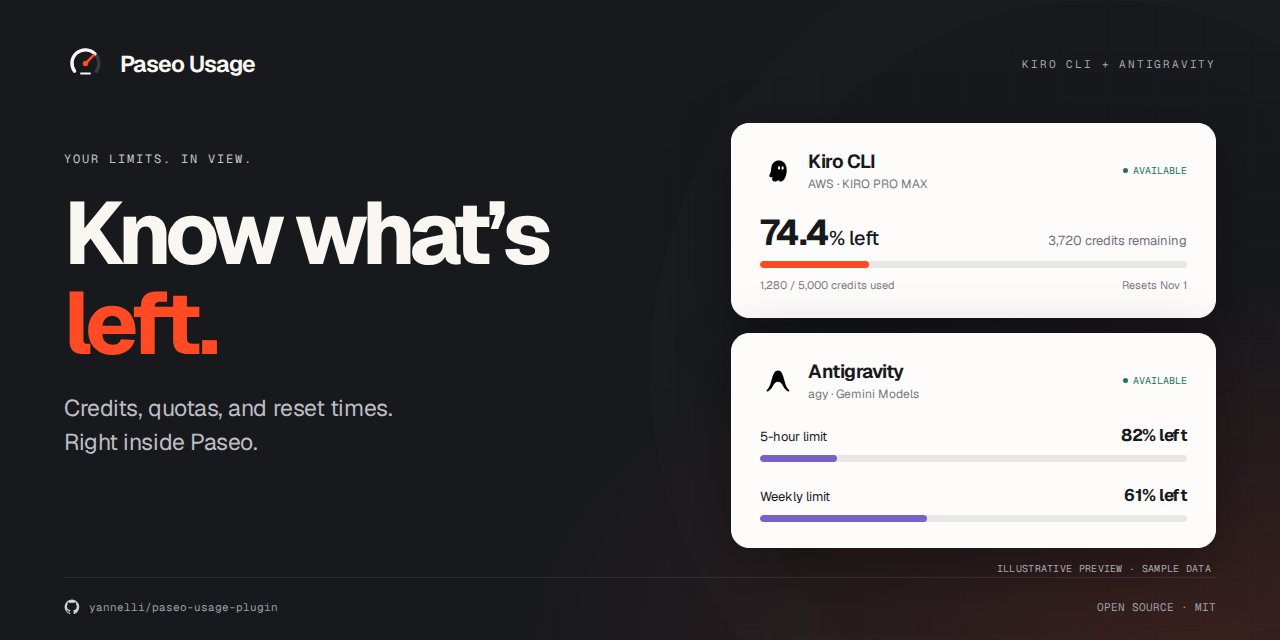
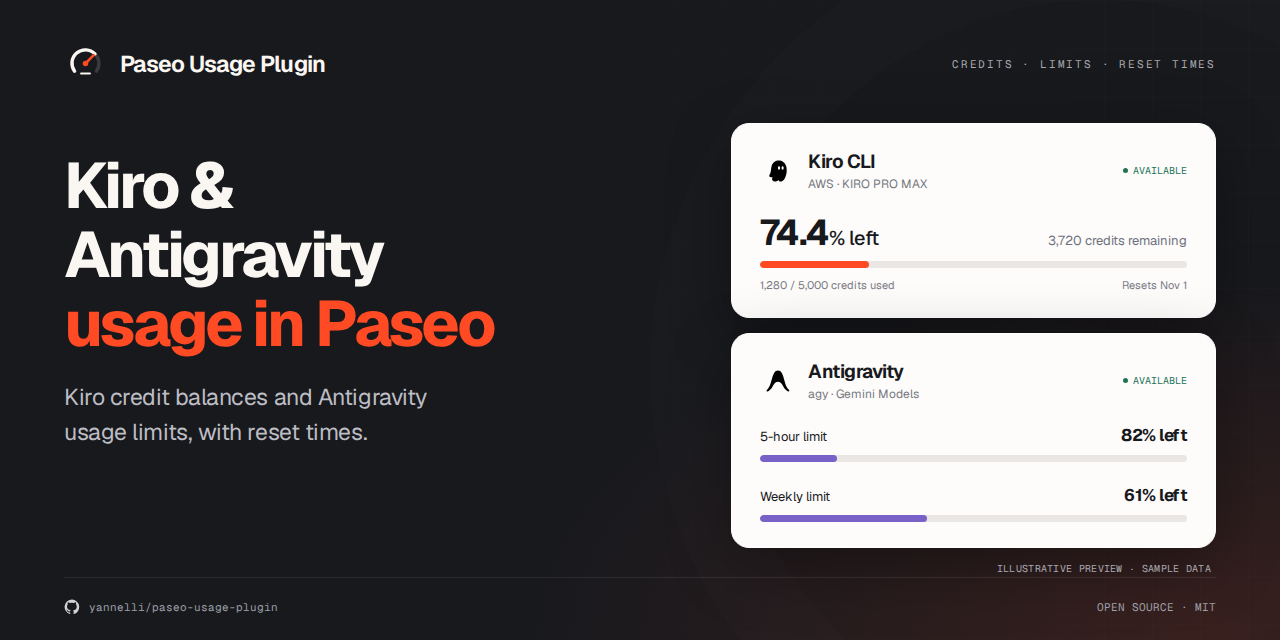
fix: describe plugin usage clearly in headings and graphics

diff --git a/docs/graphics/banner.html b/docs/graphics/banner.html
@@ -2,7 +2,7 @@
 <html lang="en">
 <head>
   <meta charset="utf-8">
-  <title>Paseo Usage — illustrative quota preview</title>
+  <title>Kiro and Antigravity usage in Paseo</title>
   <style>
     @font-face{font-family:Geist;src:url('./fonts/geist.woff2') format('woff2');font-weight:100 900}
     @font-face{font-family:Geist Mono;src:url('./fonts/geist-mono.woff2') format('woff2');font-weight:100 900}
@@ -14,8 +14,8 @@
     .watermark{position:absolute;width:900px;height:900px;right:-270px;top:-80px;border:80px solid #ffffff03;border-radius:50%}
     header{position:absolute;left:64px;right:64px;top:42px;display:flex;align-items:center;justify-content:space-between}
     .brand{display:flex;align-items:center;gap:13px;font-size:23px;font-weight:640;letter-spacing:-.7px}.brand img{width:43px;height:43px}.edition{font:11px Geist Mono,monospace;color:var(--muted);letter-spacing:1.8px}
-    .copy{position:absolute;left:64px;top:170px;width:535px}.eyebrow{font:12px Geist Mono,monospace;letter-spacing:2px;color:#c5c5c9;margin-bottom:22px}
-    h1{font-size:94px;line-height:1.02;letter-spacing:-6px;font-weight:730;margin:0}h1 em{font-style:normal;color:var(--orange)}
+    .copy{position:absolute;left:64px;top:180px;width:535px}.eyebrow{font:12px Geist Mono,monospace;letter-spacing:2px;color:#c5c5c9;margin-bottom:22px}
+    h1{font-size:64px;line-height:1.08;letter-spacing:-2.8px;font-weight:730;margin:0}h1 em{font-style:normal;color:var(--orange)}
     .intro{font-size:23px;line-height:1.5;color:#bdbdc4;margin-top:29px;letter-spacing:-.45px;max-width:445px}
     .chips{display:flex;gap:10px;margin-top:27px}.chip{font-size:12px;border:1px solid #ffffff1b;padding:8px 11px;border-radius:5px;color:#d5d5db}.chip:before{content:'✓';color:#ff7254;margin-right:7px}
     .stack{position:absolute;right:64px;top:144px;width:485px}.card{color:var(--ink);background:#fdfcfb;border:1px solid #fff;border-radius:18px;padding:25px 28px;box-shadow:0 18px 65px #0005}
@@ -24,18 +24,17 @@
     .sample{font:10px Geist Mono,monospace;color:#aaaab1;text-align:right;margin:14px 5px;letter-spacing:.3px}.bottom{position:absolute;left:64px;right:64px;bottom:35px;display:flex;align-items:center;justify-content:space-between;border-top:1px solid #ffffff15;padding-top:21px;font:11px Geist Mono,monospace;color:#9fa0a8}.repo{display:flex;align-items:center;gap:9px}.repo svg{height:16px;width:16px;fill:#d1d1d5}
     .preview{background:var(--paper);color:var(--ink);display:none;padding:48px 64px}.preview .eyebrow{color:#8b634f;margin-bottom:10px}.preview h2{font-size:47px;letter-spacing:-2.2px;font-weight:680;margin:0 0 9px}.preview .lead{font-size:17px;color:#77787f;margin:0}.panels{display:grid;grid-template-columns:1fr 1fr;gap:22px;margin-top:31px}.panel{background:#fff;border:1px solid #e6e3df;border-radius:14px;padding:27px 30px;height:404px;box-shadow:0 6px 12px #1a191c03}.panel h3{font-size:23px;letter-spacing:-.7px;margin:0}.panel .balance strong{font-size:49px}.panel .balance{margin-top:29px}.panel .legend{font-size:12px}.metrics{display:grid;grid-template-columns:1fr 1fr;border-top:1px solid #eee9e4;margin-top:23px;padding-top:19px;gap:10px}.metric label{font-size:12px;color:#7b7c84;display:block;margin-bottom:6px}.metric strong{font-size:24px;letter-spacing:-1px;font-weight:550}.metric small{font-size:13px;letter-spacing:0;color:#7b7c84}.reset{border-top:1px solid #eee9e4;margin-top:19px;padding-top:16px;display:flex;justify-content:space-between;align-items:center;font-size:12px;color:#7b7c84}.reset b{font-weight:500;color:#33343a}.group{margin-top:20px}.group-label{font-size:12px;color:#777981;margin-bottom:13px}.group .quota-row{margin-top:12px}.group .quota-line{font-size:12px;margin-bottom:7px}.group .quota-line strong{font-size:15px}.group .track{height:6px}.group+.group{padding-top:16px;border-top:1px solid #eee9e4;margin-top:18px}.panel .status{font-size:10px}.preview .bottom{border-color:#ddd9d4;color:#77787f;bottom:32px}.preview .bottom span:first-child{color:#41424a}
     body[data-view=preview] .hero{display:none}body[data-view=preview] .preview{display:block}
-    body[data-view=social],body[data-view=social] .artboard{height:640px}body[data-view=social] .copy{top:151px}body[data-view=social] .stack{top:123px}body[data-view=social] h1{font-size:88px}body[data-view=social] .chips{display:none}body[data-view=social] .intro{margin-top:22px}body[data-view=social] .bottom{bottom:25px}
+    body[data-view=social],body[data-view=social] .artboard{height:640px}body[data-view=social] .copy{top:151px}body[data-view=social] .stack{top:123px}body[data-view=social] .chips{display:none}body[data-view=social] .intro{margin-top:22px}body[data-view=social] .bottom{bottom:25px}
   </style>
 </head>
 <body>
   <section class="artboard hero">
     <div class="grid"></div><div class="watermark"></div>
-    <header><div class="brand"><img src="../../assets/icon.svg" alt="Usage gauge">Paseo Usage</div><div class="edition">KIRO CLI + ANTIGRAVITY</div></header>
-    <div class="copy">
-      <div class="eyebrow">YOUR LIMITS. IN VIEW.</div>
-      <h1>Know what’s<br><em>left.</em></h1>
-      <p class="intro">Credits, quotas, and reset times.<br>Right inside Paseo.</p>
-      <div class="chips"><span class="chip">Existing CLI logins</span><span class="chip">Native Usage view</span></div>
+    <header><div class="brand"><img src="../../assets/icon.svg" alt="Usage gauge">Paseo Usage Plugin</div><div class="edition">CREDITS · LIMITS · RESET TIMES</div></header>
+    <div class="copy" data-bounds>
+      <h1>Kiro &amp;<br>Antigravity<br><em>usage in Paseo</em></h1>
+      <p class="intro">Kiro credit balances and Antigravity<br>usage limits, with reset times.</p>
+      <div class="chips"><span class="chip">Uses existing CLI logins</span><span class="chip">Shown in Usage</span></div>
     </div>
     <div class="stack">
       <div class="card" data-bounds>
@@ -53,9 +52,9 @@
     <footer class="bottom"><span class="repo"><svg viewBox="0 0 24 24" aria-hidden="true"><path d="M12 .8a11.2 11.2 0 0 0-3.5 21.8c.6.1.8-.2.8-.5v-2c-3.3.7-4-1.4-4-1.4-.5-1.3-1.3-1.7-1.3-1.7-1.1-.8.1-.8.1-.8 1.2.1 1.8 1.2 1.8 1.2 1 1.8 2.6 1.3 3.3 1 .1-.8.4-1.3.7-1.6-2.6-.3-5.4-1.3-5.4-5.8 0-1.3.5-2.3 1.2-3.1-.1-.3-.5-1.5.1-3.1 0 0 1-.3 3.1 1.2a10.8 10.8 0 0 1 5.7 0C16.8 4.5 17.8 4.8 17.8 4.8c.6 1.6.2 2.8.1 3.1.8.9 1.2 1.9 1.2 3.2 0 4.5-2.8 5.5-5.5 5.8.4.4.8 1.1.8 2.2v3c0 .3.2.6.8.5A11.2 11.2 0 0 0 12 .8Z"/></svg>yannelli/paseo-usage-plugin</span><span>OPEN SOURCE · MIT</span></footer>
   </section>
   <section class="artboard preview">
-    <div class="eyebrow">TWO PROVIDERS. ONE PLACE.</div>
-    <h2>See the balance. Plan the next task.</h2>
-    <p class="lead">Account credits and shared model limits, alongside the reset times that matter.</p>
+    <div class="eyebrow">EXAMPLE USAGE REPORTS</div>
+    <h2>Kiro credits and Antigravity limits</h2>
+    <p class="lead">Kiro: used and remaining credits. Antigravity: five-hour and weekly usage limits.</p>
     <div class="panels">
       <article class="panel" data-bounds>
         <div class="card-title"><span class="provider kiro"><img src="../../assets/providers/kiro.svg" alt="Kiro logo"></span><div><h3>Kiro CLI</h3><div class="sub">AWS · KIRO PRO MAX</div></div><span class="status">AVAILABLE</span></div>

diff --git a/README.md b/README.md
@@ -1,4 +1,4 @@
-![Paseo Usage: know what’s left. Kiro credits and Antigravity quotas, right inside Paseo.](docs/images/github-banner.png)
+![Kiro and Antigravity usage in Paseo: credit balances, usage limits, and reset times.](docs/images/github-banner.png)
 
 # Paseo Usage Plugin
 
@@ -8,9 +8,7 @@
 [![Paseo 0.11.2+](https://img.shields.io/badge/Paseo-0.11.2%2B-18191d)](https://paseo.sh)
 [![MIT license](https://img.shields.io/badge/license-MIT-18191d)](LICENSE)
 
-**Kiro credits. Antigravity quotas. One Usage view.**
-
-`paseo-usage-plugin` brings the account limits from **Kiro CLI (AWS)** and **Antigravity CLI (`agy`)** into Paseo's built-in Usage view and matching agent popovers. It uses the CLI accounts you already signed in with.
+`paseo-usage-plugin` shows **Kiro CLI (AWS) credit balances** and **Antigravity CLI (`agy`) usage limits** in Paseo's Usage view and agent popovers. Reports include remaining allowances and reset times, using your existing CLI logins.
 
 | Provider | What you see |
 | --- | --- |
@@ -40,17 +38,17 @@ paseo plugin install git:yannelli/paseo-usage-plugin
 
 For a fixed GitHub release, add `--ref <release-tag>`. Use a tag from [Releases](https://github.com/yannelli/paseo-usage-plugin/releases). The runtime plugin ID remains `paseo-usage-plugin` for either install source.
 
-## The numbers that matter
+## Usage reports
 
 ![Illustrated Kiro credit balance and Antigravity shared quota reports with sample data.](docs/images/quota-preview.png)
 
 *Graphics are illustrations with sample data, not product screenshots. The actual layout is provided by Paseo.*
 
-- **Account limits, where you work.** The same usage sources feed the host-wide Usage view and the corresponding agent's popover.
-- **The right account for each agent.** Session discovery follows the agent's launch environment. Stable account keys survive token rotation.
-- **Reset times from the provider.** Reported five-hour and weekly periods stay distinct. Unknown periods are not guessed from a countdown.
-- **Existing logins, read-only.** The plugin reads stored access tokens. It never refreshes them, changes login files, or starts an agent.
-- **Useful failure states.** Expired or rejected logins show a remedy. An account error does not prevent other accounts from reporting usage.
+- **Usage view and agent popovers.** Both show reports from the same usage sources.
+- **Account selection.** Each agent uses the CLI account selected by its launch environment. Account identities remain stable when tokens rotate.
+- **Reset periods.** Five-hour and weekly limits use the periods reported by the provider. The plugin does not infer an unknown period from its reset countdown.
+- **Credential access.** The plugin reads stored access tokens. It never refreshes them, changes login files, or starts an agent.
+- **Login errors.** Expired or rejected logins show how to sign in again. Other accounts continue reporting usage.
 
 ## Configuration
 
